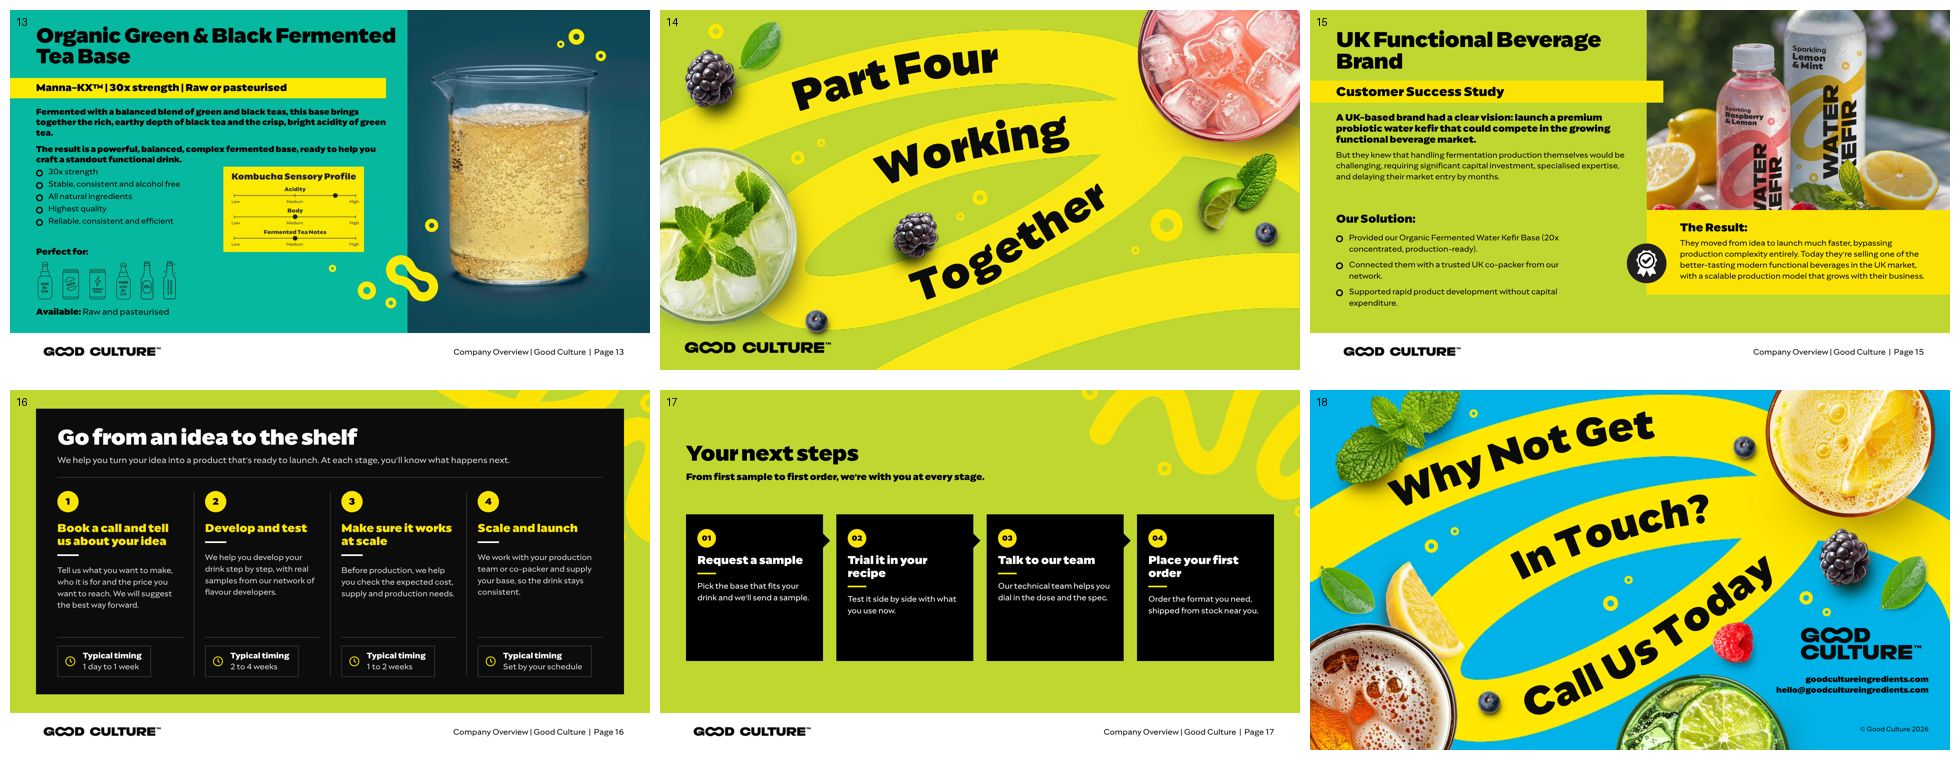
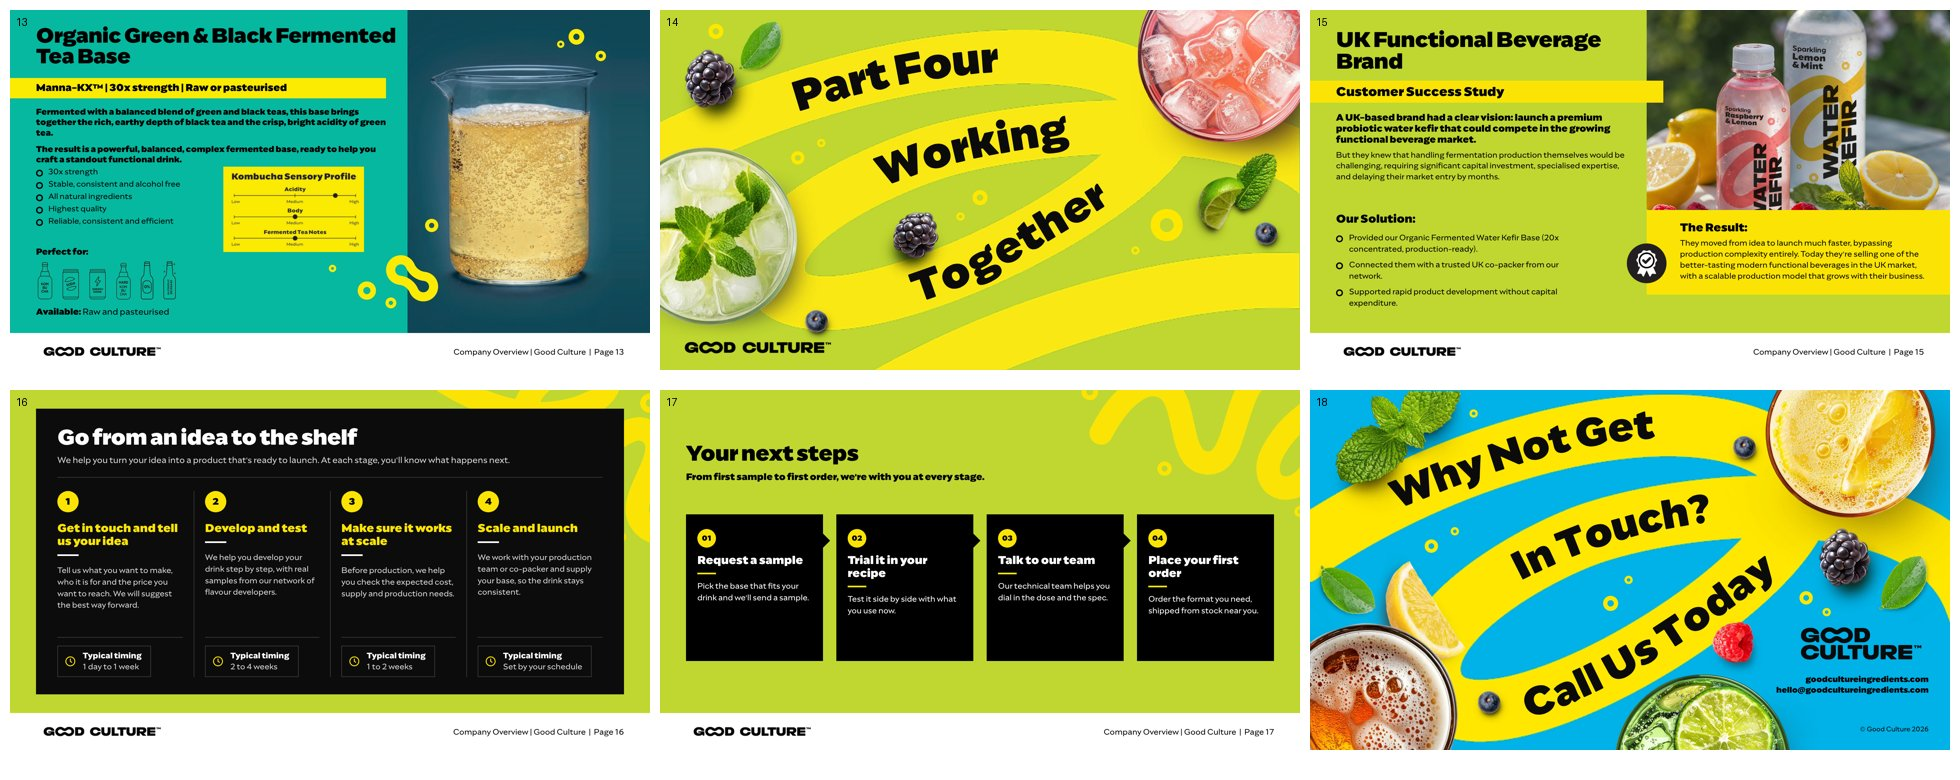
Replace "Book a call" with "Get in touch" in the timeline slides (#3)
The website no longer offers booked calls (Luke, 24 Nov), so the first
stage of the timeline slides now reads "Get in touch and tell us your
idea", matching the website. Catalogue and example contact sheets rebuilt.

Claude-Session: https://claude.ai/code/session_014ADbHpg5Qbi3A1bQhWnjKm

Changed region(s): [[0.0311, 0.6462, 0.0934, 0.7077]]

diff --git a/library/specs.py b/library/specs.py
@@ -137,7 +137,7 @@ COMPONENTS["slides"] += [
  {"r": "challenges", "id": "chal-photo", "chapter": "sky", "layout": "photo", "photo": "tasting", "alt": "A brewer checking a sample against the light", "title": "Challenges we help brands to overcome", "items": _C},
 ]
 
-_T = [("Book a call and tell us about your idea", "Tell us what you want to make, who it is for and the price you want to reach. We will suggest the best way forward.", "1 day to 1 week"),
+_T = [("Get in touch and tell us your idea", "Tell us what you want to make, who it is for and the price you want to reach. We will suggest the best way forward.", "1 day to 1 week"),
       ("Develop and test", "We help you develop your drink step by step, with real samples from our network of flavour developers.", "2 to 4 weeks"),
       ("Make sure it works at scale", "Before production, we help you check the expected cost, supply and production needs.", "1 to 2 weeks"),
       ("Scale and launch", "We work with your production team or co-packer and supply your base, so the drink stays consistent.", "Set by your schedule")]

diff --git a/library/CATALOGUE.md b/library/CATALOGUE.md
@@ -173,17 +173,17 @@ Stages with timings, such as idea to shelf.
 
 ### timeline-4  (panel: a black panel on the chapter colour; swirl)
 ```json
-{"id": "timeline-4", "chapter": "orange", "style": "panel", "title": "Go from an idea to the shelf", "lead": "We help you turn your idea into a product that's ready to launch. At each stage, you'll know what happens next.", "stages": [["Book a call and tell us about your idea", "Tell us what you want to make, who it is for and the price you want to reach. We will suggest the best way forward.", "1 day to 1 week"], ["Develop and test", "We help you develop your drink step by step, with real samples from our network of flavour developers.", "2 to 4 weeks"], ["Make sure it works at scale", "Before production, we help you check the expected cost, supply and production needs.", "1 to 2 weeks"], ["Scale and launch", "We work with your production team or co-packer and supply your base, so the drink stays consistent.", "Set by your schedule"]], "swirl": true, "sw": "6"}
+{"id": "timeline-4", "chapter": "orange", "style": "panel", "title": "Go from an idea to the shelf", "lead": "We help you turn your idea into a product that's ready to launch. At each stage, you'll know what happens next.", "stages": [["Get in touch and tell us your idea", "Tell us what you want to make, who it is for and the price you want to reach. We will suggest the best way forward.", "1 day to 1 week"], ["Develop and test", "We help you develop your drink step by step, with real samples from our network of flavour developers.", "2 to 4 weeks"], ["Make sure it works at scale", "Before production, we help you check the expected cost, supply and production needs.", "1 to 2 weeks"], ["Scale and launch", "We work with your production team or co-packer and supply your base, so the drink stays consistent.", "Set by your schedule"]], "swirl": true, "sw": "6"}
 ```
 
 ### timeline-3  (panel: a black panel on the chapter colour; swirl)
 ```json
-{"id": "timeline-3", "chapter": "orange", "style": "panel", "title": "Go from an idea to the shelf", "lead": "We help you turn your idea into a product that's ready to launch. At each stage, you'll know what happens next.", "stages": [["Book a call and tell us about your idea", "Tell us what you want to make, who it is for and the price you want to reach. We will suggest the best way forward.", "1 day to 1 week"], ["Develop and test", "We help you develop your drink step by step, with real samples from our network of flavour developers.", "2 to 4 weeks"], ["Scale and launch", "We work with your production team or co-packer and supply your base, so the drink stays consistent.", "Set by your schedule"]], "swirl": true, "sw": "7"}
+{"id": "timeline-3", "chapter": "orange", "style": "panel", "title": "Go from an idea to the shelf", "lead": "We help you turn your idea into a product that's ready to launch. At each stage, you'll know what happens next.", "stages": [["Get in touch and tell us your idea", "Tell us what you want to make, who it is for and the price you want to reach. We will suggest the best way forward.", "1 day to 1 week"], ["Develop and test", "We help you develop your drink step by step, with real samples from our network of flavour developers.", "2 to 4 weeks"], ["Scale and launch", "We work with your production team or co-packer and supply your base, so the drink stays consistent.", "Set by your schedule"]], "swirl": true, "sw": "7"}
 ```
 
 ### timeline-4-light  (off-chapter: white, cream or full photo ground, use only when nothing on the chapter colour fits)
 ```json
-{"id": "timeline-4-light", "chapter": "orange", "style": "light", "title": "Go from an idea to the shelf", "lead": "We help you turn your idea into a product that's ready to launch. At each stage, you'll know what happens next.", "stages": [["Book a call and tell us about your idea", "Tell us what you want to make, who it is for and the price you want to reach. We will suggest the best way forward.", "1 day to 1 week"], ["Develop and test", "We help you develop your drink step by step, with real samples from our network of flavour developers.", "2 to 4 weeks"], ["Make sure it works at scale", "Before production, we help you check the expected cost, supply and production needs.", "1 to 2 weeks"], ["Scale and launch", "We work with your production team or co-packer and supply your base, so the drink stays consistent.", "Set by your schedule"]]}
+{"id": "timeline-4-light", "chapter": "orange", "style": "light", "title": "Go from an idea to the shelf", "lead": "We help you turn your idea into a product that's ready to launch. At each stage, you'll know what happens next.", "stages": [["Get in touch and tell us your idea", "Tell us what you want to make, who it is for and the price you want to reach. We will suggest the best way forward.", "1 day to 1 week"], ["Develop and test", "We help you develop your drink step by step, with real samples from our network of flavour developers.", "2 to 4 weeks"], ["Make sure it works at scale", "Before production, we help you check the expected cost, supply and production needs.", "1 to 2 weeks"], ["Scale and launch", "We work with your production team or co-packer and supply your base, so the drink stays consistent.", "Set by your schedule"]]}
 ```
 
 ## problemfix
@@ -608,10 +608,10 @@ Master template: words with bottles art.
 
 ## Photos
 
-- `mphoto`, `casestudy` and `challenges` (chal-photo) take any photo in `plates/photos/`: _deck-functional-beverages-good-culture-4, _deck-pf-1, _deck-pf-2, _deck-pf-3, _deck-pf-4, bottling, brewer, hardkom, icedtea, kefir, kombucha, tanks, tasting.
+- `mphoto`, `casestudy` and `challenges` (chal-photo) take any photo in `plates/photos/`: bottling, brewer, hardkom, icedtea, kefir, kombucha, tanks, tasting.
   A new photo goes in `plates/photos/<name>.jpg` (landscape, about 1920px wide, under 400KB), then `photo: <name>`.
 - `photo` slides have the photo set into Jim's ring background, so only these: brewer, icedtea, kefir, kombucha, kommbru, tasting.
-- `fullphoto` uses `plates/photos/full-<name>.jpg`: _deck-functional-beverages-good-culture-4, _deck-pf-1, _deck-pf-2, _deck-pf-3, _deck-pf-4, tanks.
+- `fullphoto` uses `plates/photos/full-<name>.jpg`: tanks.
 
 ## Icons
 
